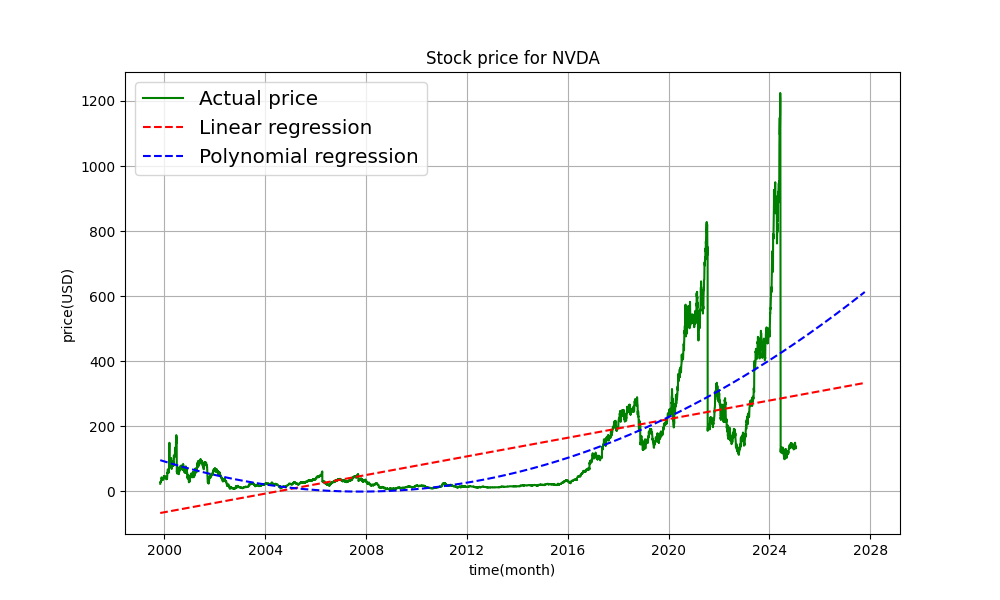
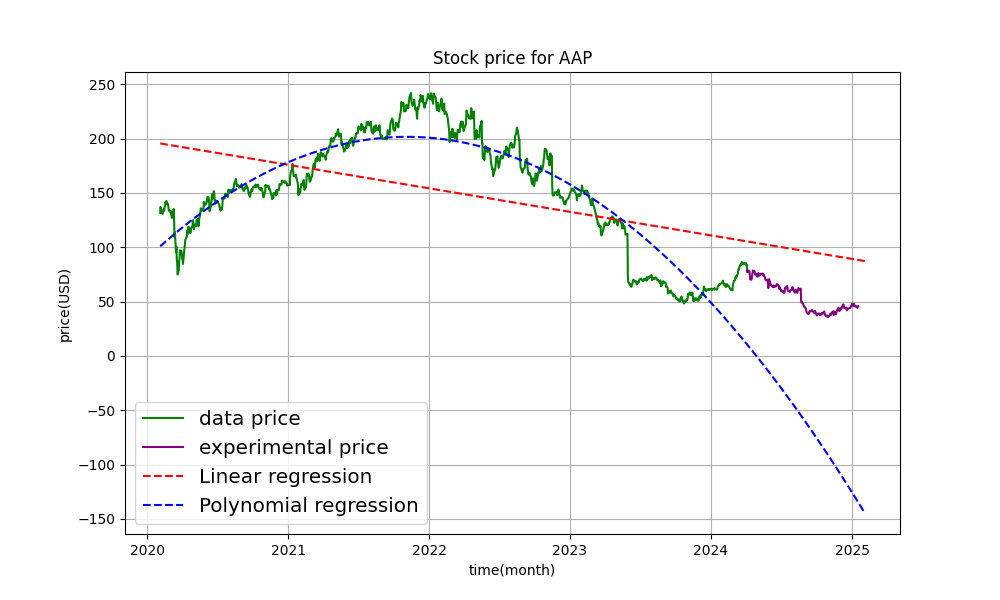
stock finished

diff --git a/stock_predictor/main.py b/stock_predictor/main.py
@@ -6,20 +6,26 @@ from sklearn.linear_model import LinearRegression
 from sklearn.preprocessing import PolynomialFeatures
 from datetime import timedelta
 
-syb = input("company:").upper()
+syb = input("company: ").upper()
 url = f'https://www.alphavantage.co/query?function=TIME_SERIES_DAILY&symbol={syb}&interval=5min&apikey=82ESBKSY3WTLXIPO&outputsize=full'
 #url = f'https://www.alphavantage.co/query?function=TIME_SERIES_INTRADAY&symbol={syb}&interval=5min&apikey=82ESBKSY3WTLXIPO'
 r = requests.get(url)
 datas = r.json()
 stock = pd.DataFrame(data=datas["Time Series (Daily)"])
 close_price = stock.iloc[3]
+date_u = pd.to_datetime(input("starting date (YYYY-MM-DD): "))
+date_v = pd.to_datetime(input("ending date   (YYYY-MM-DD): "))
 
-def data_calculate(close_price,predict_day):
+def data_calculate(close_price,predict_day,du,dv):
     r_price = list(close_price.index)
     r_price.reverse()
-    x = pd.to_datetime(r_price)
-    y = [float(item) for item in close_price.values]
-    y.reverse()
+    d_price = pd.to_datetime(r_price)
+    x = list(filter((3).__ne__, [date if (date - du).days >= 0 and (dv - date).days >= 0 else 3 for date in d_price]))
+    ux = list(filter((3).__ne__, [date if(date - dv).days >= -2 else 3 for date in d_price]))
+
+    y = [float(i) for i in list(close_price.loc[[str(i)[:10] for i in x]])]
+    uy = [float(i) for i in list(close_price.loc[[str(i)[:10] for i in ux]])]
+    
 
     x_index = [date - x[0] for date in x]
     x_index = [r.days for r in x_index]
@@ -35,7 +41,7 @@ def data_calculate(close_price,predict_day):
     pre_y1 = model.predict(np.array(x_index_pre).reshape((-1, 1)))
     pre_x = [x[0] + timedelta(w) for w in x_index_pre]
 
-    return x,y,pre_x,pre_y1,pre_y2
+    return x,y,pre_x,pre_y1,pre_y2,ux,uy
 '''''
 ix = list(close_price.index)
 ix.reverse()
@@ -61,12 +67,16 @@ plt.xlabel("time(month)")
 plt.ylabel("price(USD)")
 plt.grid()
 
-x,y,pre_x,pre_y1,pre_y2 = data_calculate(close_price,1000)
-price, = plt.plot(x,y,label="actual price",color="green")
+x,y,pre_x,pre_y1,pre_y2,ux,uy = data_calculate(close_price,int(round((date_v-date_u).days*0.2)),date_u,date_v)
+#print (f"\n\n{x}\n{ux}\n\n{y}\n{uy}")
+
+#tprice, = plt.plot(pd.to_datetime(close_price.index),[float(x) for x in close_price.values],color="yellow")
+pprice, = plt.plot(x,y,label="data price",color="green")
+fprice, = plt.plot(ux,uy,label="experimental price",color="purple")
 predict1, = plt.plot(pre_x,pre_y1,linestyle='dashed',color="red")
 predict2, = plt.plot(pre_x,pre_y2,linestyle='dashed',color="blue")
 
 plt.title(f"Stock price for {syb}")
-plt.legend(["Actual price","Linear regression","Polynomial regression"], fontsize="x-large")
+plt.legend(["data price","experimental price","Linear regression","Polynomial regression"], fontsize="x-large")
 
 plt.savefig("figure.png", dpi='figure', format=None)
